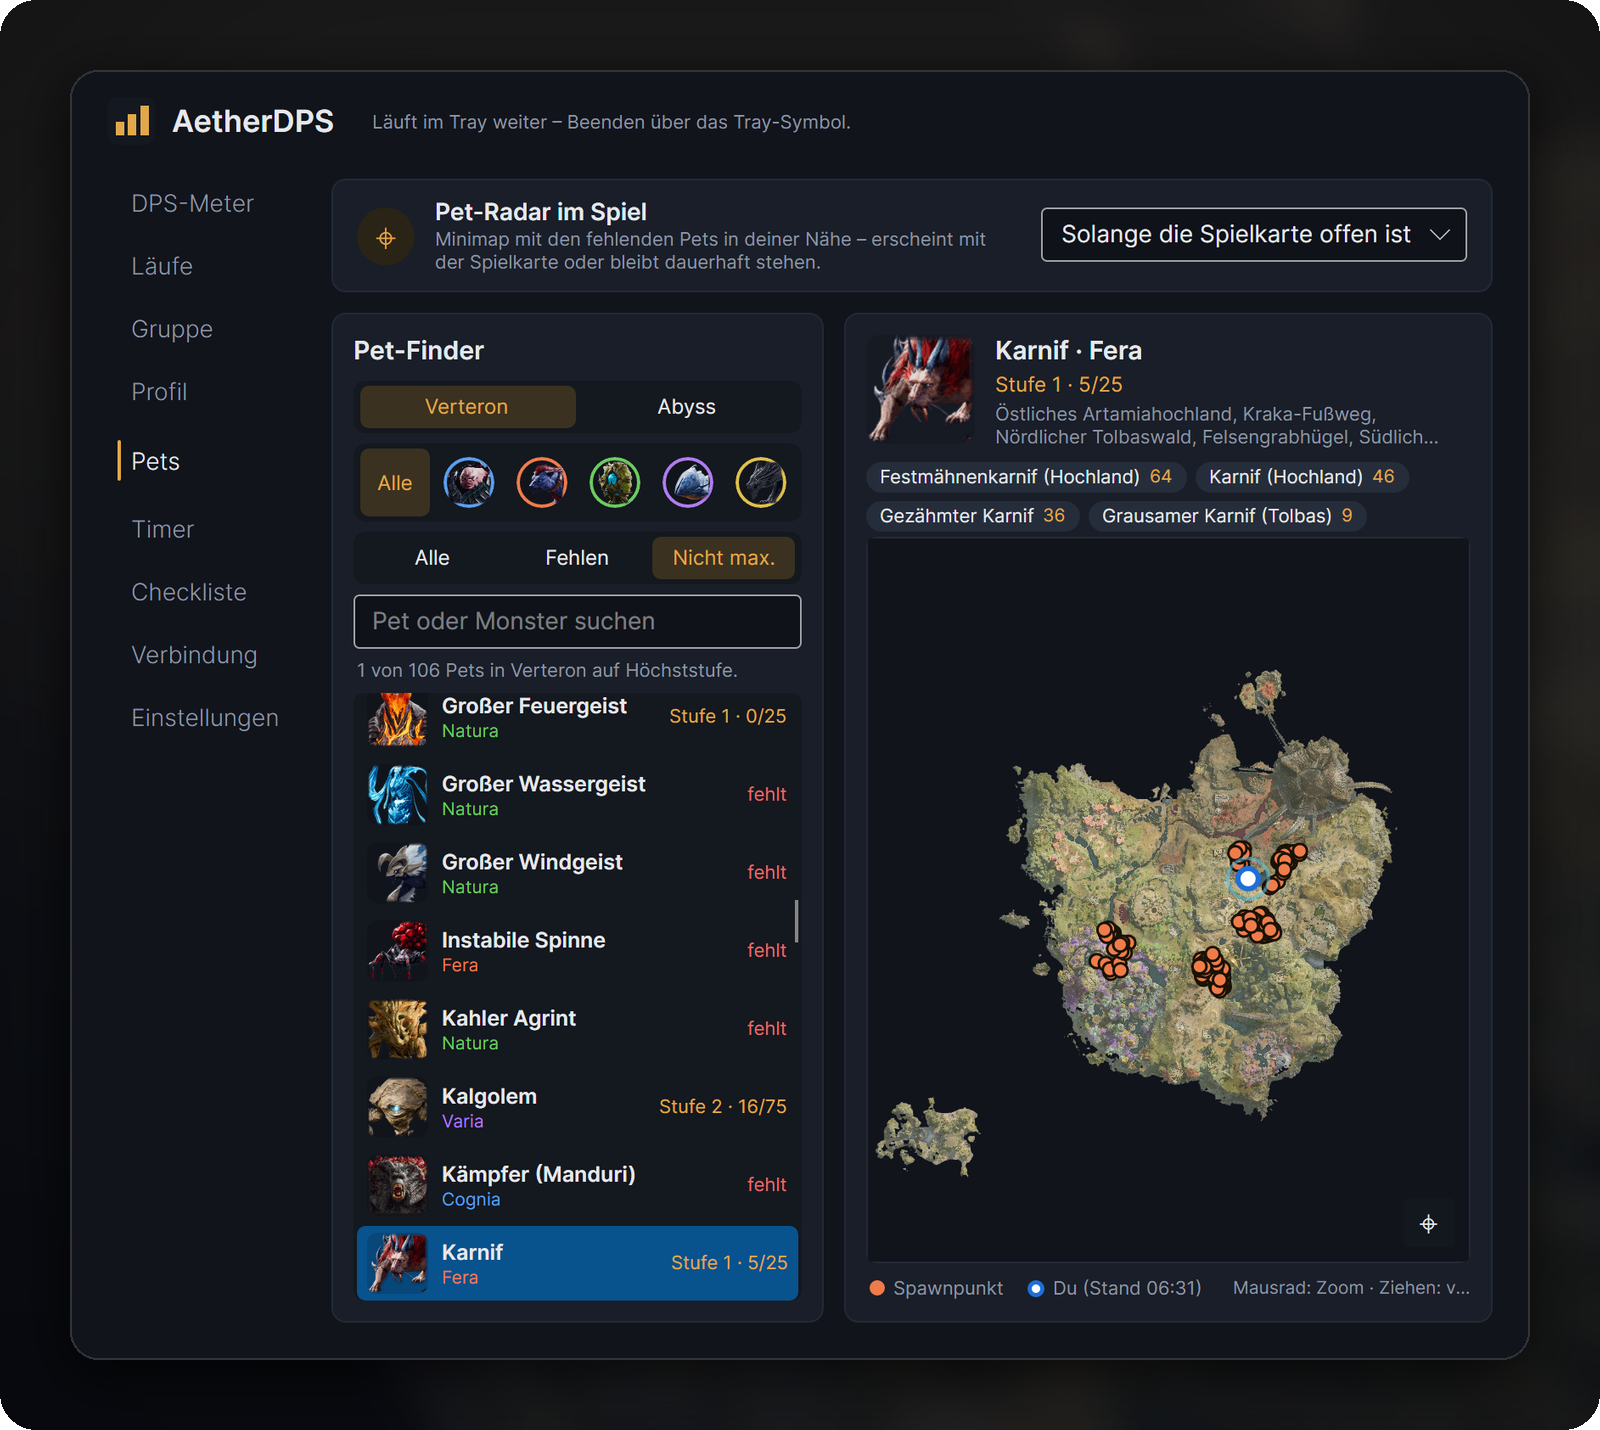
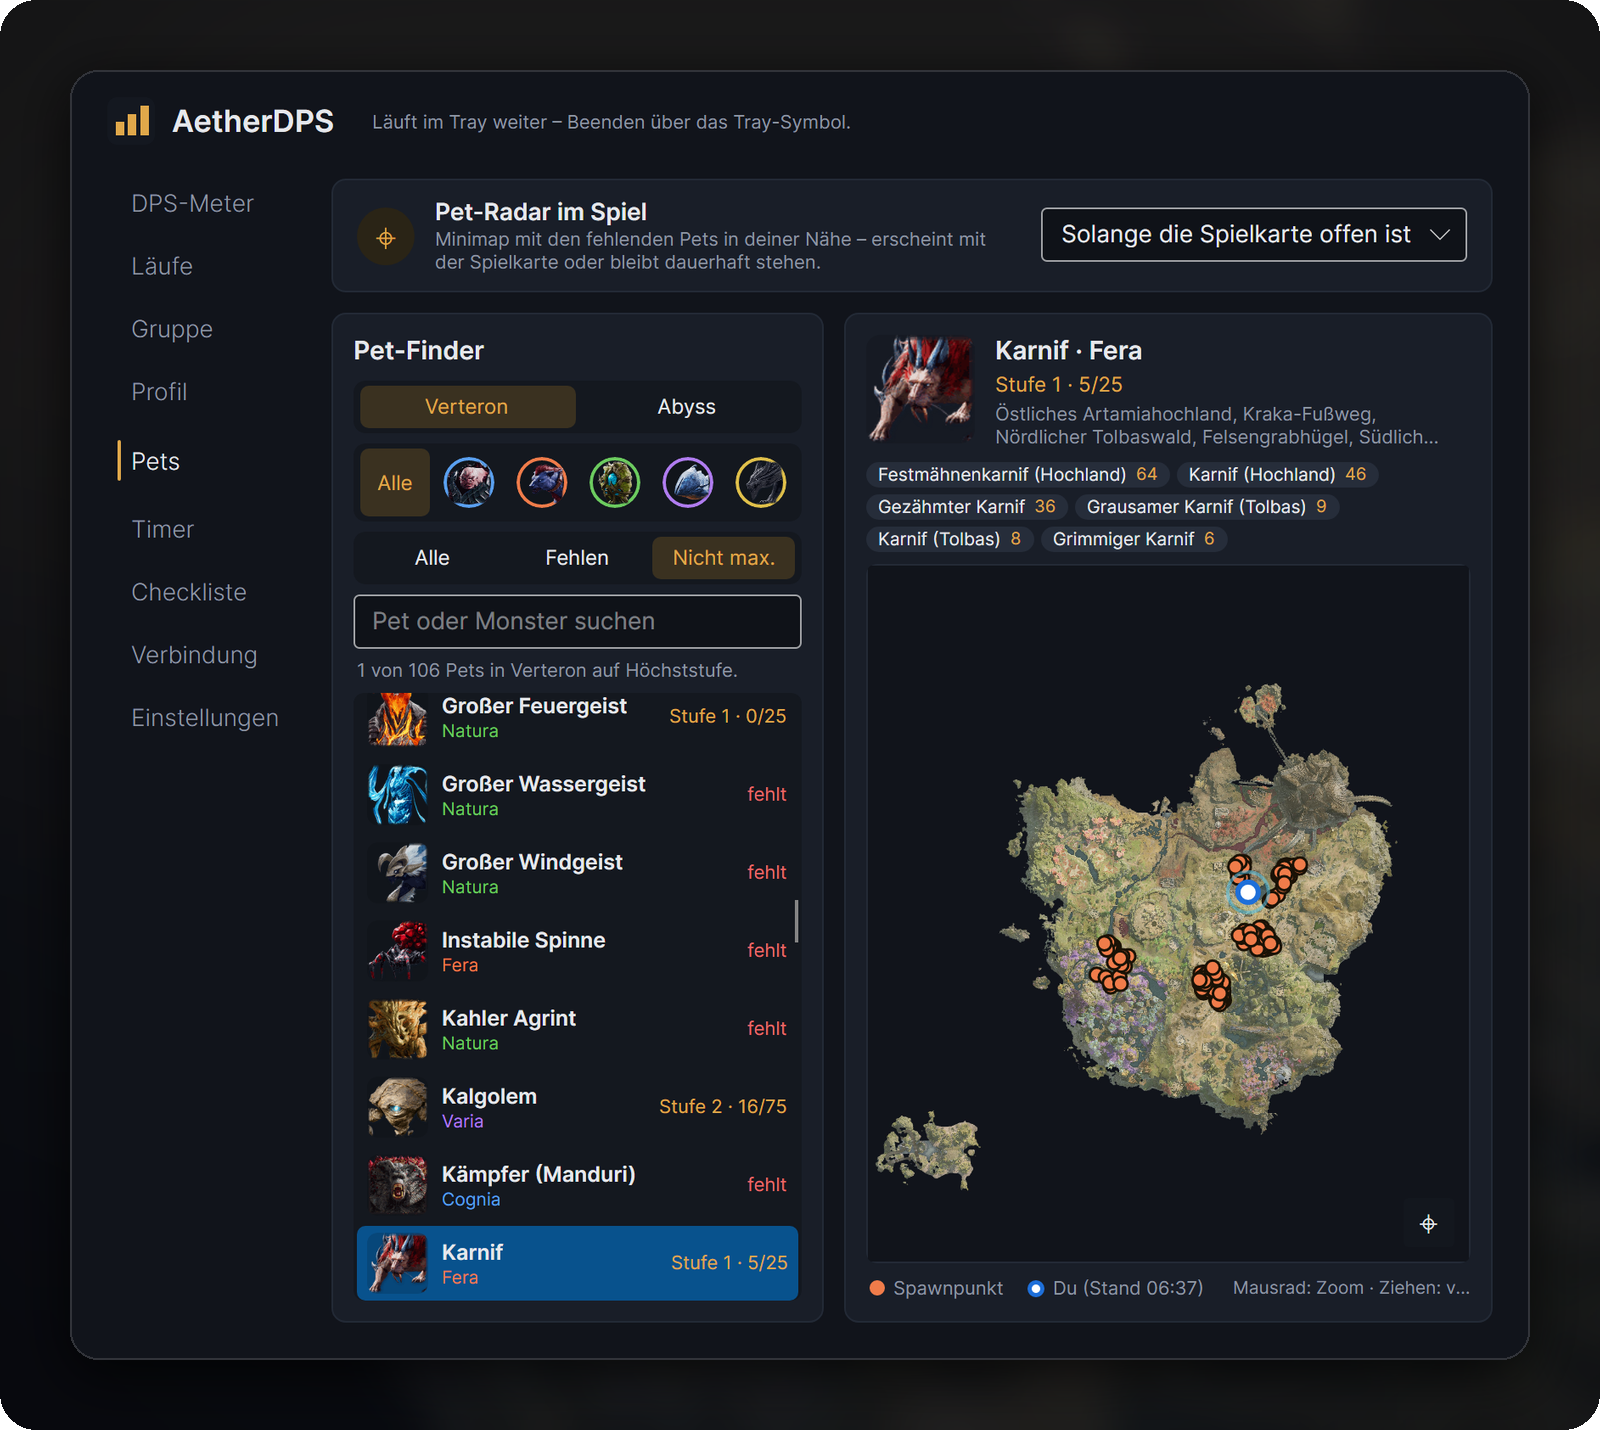
0.7.8: alle Monster eines Pets sichtbar statt weggescrollt

Changed region(s): [[0.625, 0.4615, 0.875, 0.8], [0.5312, 0.3077, 0.875, 0.4], [0.5312, 0.7692, 0.625, 0.8308]]

diff --git a/CHANGELOG.md b/CHANGELOG.md
@@ -2,6 +2,10 @@
 
 Neue Versionen oben. Der Abschnitt einer Version wird automatisch zum Text des GitHub-Releases.
 
+## 0.7.8
+
+- Reiter Pets: Es stehen immer **alle** Monster eines Pets über der Karte (vorher waren ab der dritten Zeile welche weggescrollt und nicht zu sehen)
+
 ## 0.7.7
 
 - **Pet-Radar so groß wie die Spielkarte:** Beim ersten Öffnen liegt es mittig genau über der Spielkarte und kann sie ersetzen. Größe per Ecke unten rechts ziehen, Position und Größe werden gemerkt

diff --git a/CHANGELOG.en.md b/CHANGELOG.en.md
@@ -2,6 +2,10 @@
 
 Newest versions first.
 
+## 0.7.8
+
+- Pets tab: **all** monsters of a pet are always shown above the map (before, anything past the second row was scrolled out of view)
+
 ## 0.7.7
 
 - **Pet radar as big as the game map:** the first time it opens centred right over the game map and can replace it. Drag the bottom-right corner to resize; position and size are remembered
